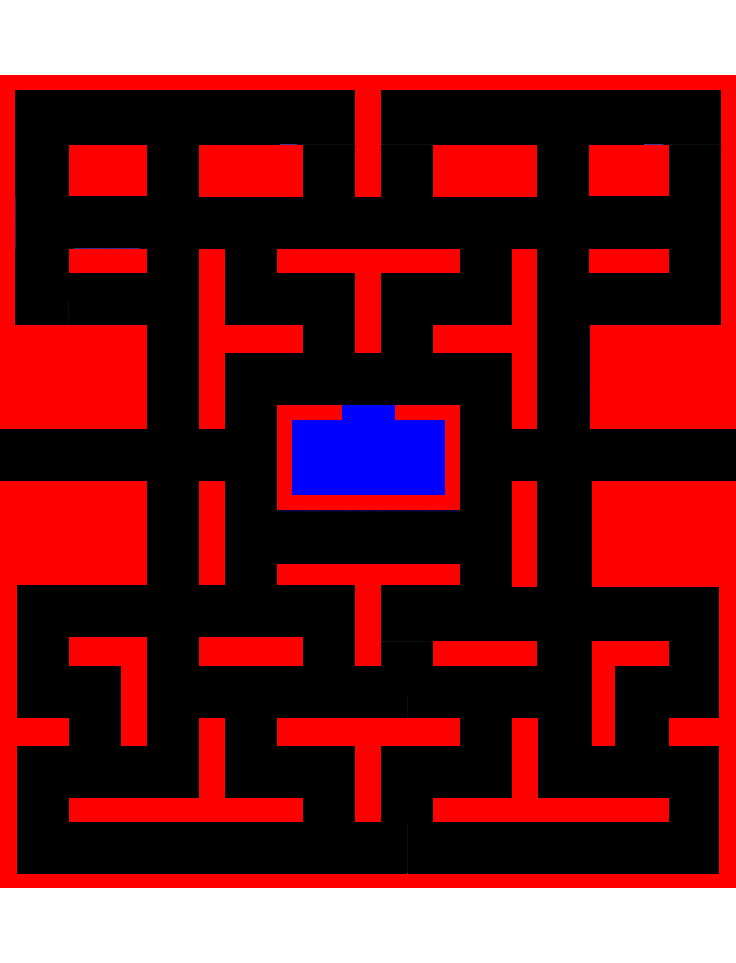
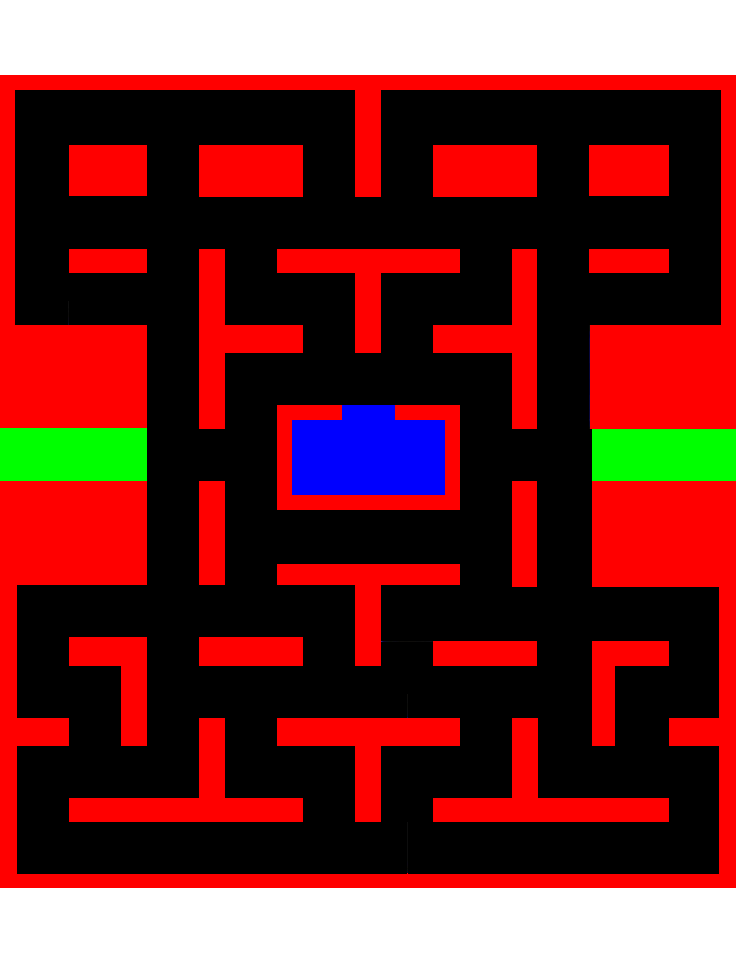
백그라운드서비스 변경

Changed region(s): [[0.7812, 0.4361, 1.0, 0.4984], [0.0, 0.4361, 0.2188, 0.4984]]

diff --git a/src/main/Service/BackgroundEnemyService.java b/src/main/Service/BackgroundEnemyService.java
@@ -29,7 +29,7 @@ public class BackgroundEnemyService {
 	public boolean leftWall() {
 		// 255 0 0 <-- 빨간색 (왼쪽벽 확인)
 		Color leftColor = new Color(image.getRGB(enemy.getX() - 10, enemy.getY() + 14));
-		if (leftColor.getRed() == 255 && leftColor.getGreen() == 0 && leftColor.getBlue() == 0) {
+		if ((leftColor.getRed() == 255 && leftColor.getGreen() == 0 && leftColor.getBlue() == 0) || (leftColor.getRed() == 0 && leftColor.getGreen() == 255 && leftColor.getBlue() == 0)) {
 			return true;
 		} else {
 			return false;
@@ -39,7 +39,7 @@ public class BackgroundEnemyService {
 	// 오른쪽벽
 	public boolean rightWall() {
 		Color rightColor = new Color(image.getRGB(enemy.getX() + 38, enemy.getY() + 14));
-		if (rightColor.getRed() == 255 && rightColor.getGreen() == 0 && rightColor.getBlue() == 0) {
+		if ((rightColor.getRed() == 255 && rightColor.getGreen() == 0 && rightColor.getBlue() == 0) || (rightColor.getRed() == 0 && rightColor.getGreen() == 255 && rightColor.getBlue() == 0)) {
 			return true;
 		} else {
 			return false;
@@ -49,7 +49,7 @@ public class BackgroundEnemyService {
 	// 위쪽벽
 	public boolean upWall() {
 		Color topColor = new Color(image.getRGB(enemy.getX() + 14, enemy.getY() - 10));
-		if (topColor.getRed() == 255 && topColor.getGreen() == 0 && topColor.getBlue() == 0) {
+		if ((topColor.getRed() == 255 && topColor.getGreen() == 0 && topColor.getBlue() == 0) || (topColor.getRed() == 0 && topColor.getGreen() == 255 && topColor.getBlue() == 0))  {
 			return true;
 		} else {
 			return false;
@@ -59,7 +59,7 @@ public class BackgroundEnemyService {
 	// 아래벽
 	public boolean downWall() {
 		Color downColor = new Color(image.getRGB(enemy.getX() + 14, enemy.getY() + 38));
-		if (downColor.getRed() == 255 && downColor.getGreen() == 0 && downColor.getBlue() == 0) {
+		if ((downColor.getRed() == 255 && downColor.getGreen() == 0 && downColor.getBlue() == 0) || (downColor.getRed() == 0 && downColor.getGreen() == 255 && downColor.getBlue() == 0)) {
 			return true;
 		} else {
 			return false;

diff --git a/src/main/Service/BackgroundEnemyService2.java b/src/main/Service/BackgroundEnemyService2.java
@@ -28,38 +28,43 @@ public class BackgroundEnemyService2 {
 	public boolean leftWall() {
 		// 255 0 0 <-- 빨간색 (왼쪽벽 확인)
 		Color leftColor = new Color(image.getRGB(enemy2.getX() - 10, enemy2.getY() + 14));
-		if (leftColor.getRed() == 255 && leftColor.getGreen() == 0 && leftColor.getBlue() == 0) {
+		if ((leftColor.getRed() == 255 && leftColor.getGreen() == 0 && leftColor.getBlue() == 0) || (leftColor.getRed() == 0 && leftColor.getGreen() == 255 && leftColor.getBlue() == 0)) {
 			return true;
+		} else {
+			return false;
 		}
-		return false;
 	}
 
 	// 오른쪽벽
 	public boolean rightWall() {
 		Color rightColor = new Color(image.getRGB(enemy2.getX() + 38, enemy2.getY() + 14));
-		if (rightColor.getRed() == 255 && rightColor.getGreen() == 0 && rightColor.getBlue() == 0) {
+		if ((rightColor.getRed() == 255 && rightColor.getGreen() == 0 && rightColor.getBlue() == 0) || (rightColor.getRed() == 0 && rightColor.getGreen() == 255 && rightColor.getBlue() == 0)) {
 			return true;
+		} else {
+			return false;
 		}
-		return false;
 	}
 
 	// 위쪽벽
 	public boolean upWall() {
 		Color topColor = new Color(image.getRGB(enemy2.getX() + 14, enemy2.getY() - 10));
-		if (topColor.getRed() == 255 && topColor.getGreen() == 0 && topColor.getBlue() == 0) {
+		if ((topColor.getRed() == 255 && topColor.getGreen() == 0 && topColor.getBlue() == 0) || (topColor.getRed() == 0 && topColor.getGreen() == 255 && topColor.getBlue() == 0))  {
 			return true;
+		} else {
+			return false;
 		}
-		return false;
 	}
 
 	// 아래벽
 	public boolean downWall() {
 		Color downColor = new Color(image.getRGB(enemy2.getX() + 14, enemy2.getY() + 38));
-		if (downColor.getRed() == 255 && downColor.getGreen() == 0 && downColor.getBlue() == 0) {
+		if ((downColor.getRed() == 255 && downColor.getGreen() == 0 && downColor.getBlue() == 0) || (downColor.getRed() == 0 && downColor.getGreen() == 255 && downColor.getBlue() == 0)) {
 			return true;
+		} else {
+			return false;
 		}
-		return false;
 
 	}
 
 }
+

diff --git a/src/main/Service/BackgroundEnemyService3.java b/src/main/Service/BackgroundEnemyService3.java
@@ -28,38 +28,43 @@ public class BackgroundEnemyService3 {
 	public boolean leftWall() {
 		// 255 0 0 <-- 빨간색 (왼쪽벽 확인)
 		Color leftColor = new Color(image.getRGB(enemy3.getX() - 10, enemy3.getY() + 14));
-		if (leftColor.getRed() == 255 && leftColor.getGreen() == 0 && leftColor.getBlue() == 0) {
+		if ((leftColor.getRed() == 255 && leftColor.getGreen() == 0 && leftColor.getBlue() == 0) || (leftColor.getRed() == 0 && leftColor.getGreen() == 255 && leftColor.getBlue() == 0)) {
 			return true;
+		} else {
+			return false;
 		}
-		return false;
 	}
 
 	// 오른쪽벽
 	public boolean rightWall() {
 		Color rightColor = new Color(image.getRGB(enemy3.getX() + 38, enemy3.getY() + 14));
-		if (rightColor.getRed() == 255 && rightColor.getGreen() == 0 && rightColor.getBlue() == 0) {
+		if ((rightColor.getRed() == 255 && rightColor.getGreen() == 0 && rightColor.getBlue() == 0) || (rightColor.getRed() == 0 && rightColor.getGreen() == 255 && rightColor.getBlue() == 0)) {
 			return true;
+		} else {
+			return false;
 		}
-		return false;
 	}
 
 	// 위쪽벽
 	public boolean upWall() {
 		Color topColor = new Color(image.getRGB(enemy3.getX() + 14, enemy3.getY() - 10));
-		if (topColor.getRed() == 255 && topColor.getGreen() == 0 && topColor.getBlue() == 0) {
+		if ((topColor.getRed() == 255 && topColor.getGreen() == 0 && topColor.getBlue() == 0) || (topColor.getRed() == 0 && topColor.getGreen() == 255 && topColor.getBlue() == 0))  {
 			return true;
+		} else {
+			return false;
 		}
-		return false;
 	}
 
 	// 아래벽
 	public boolean downWall() {
 		Color downColor = new Color(image.getRGB(enemy3.getX() + 14, enemy3.getY() + 38));
-		if (downColor.getRed() == 255 && downColor.getGreen() == 0 && downColor.getBlue() == 0) {
+		if ((downColor.getRed() == 255 && downColor.getGreen() == 0 && downColor.getBlue() == 0) || (downColor.getRed() == 0 && downColor.getGreen() == 255 && downColor.getBlue() == 0)) {
 			return true;
+		} else {
+			return false;
 		}
-		return false;
 
 	}
 
 }
+

diff --git a/src/main/Service/BackgroundPlayerService.java b/src/main/Service/BackgroundPlayerService.java
@@ -39,19 +39,23 @@ public class BackgroundPlayerService implements Runnable {
 				Color bottomColor = new Color(image.getRGB(player.getX() + 14, player.getY() + 30));
 
 				// 벽 감지 -> 벽 충돌
-				if (leftColor.getRed() == 255 && leftColor.getGreen() == 0 && leftColor.getBlue() == 0) {
+				if ((leftColor.getRed() == 255 && leftColor.getGreen() == 0 && leftColor.getBlue() == 0)
+						|| leftColor.getRed() == 0 && leftColor.getGreen() == 0 && leftColor.getBlue() == 255) {
 					// System.out.println("왼쪽 벽에 충돌함");
 					player.setLeftWallCrash(true);
 					player.setLeft(false);
-				} else if (rightColor.getRed() == 255 && rightColor.getGreen() == 0 && rightColor.getBlue() == 0) {
+				} else if ((rightColor.getRed() == 255 && rightColor.getGreen() == 0 && rightColor.getBlue() == 0)
+						|| (rightColor.getRed() == 0 && rightColor.getGreen() == 0 && rightColor.getBlue() == 255)) {
 					// System.out.println("오른쪽 벽에 충돌함");
 					player.setRightWallCrash(true);
 					player.setRight(false);
-				} else if (topColor.getRed() == 255 && topColor.getGreen() == 0 && topColor.getBlue() == 0) {
+				} else if ((topColor.getRed() == 255 && topColor.getGreen() == 0 && topColor.getBlue() == 0)
+						|| (topColor.getRed() == 0 && topColor.getGreen() == 0 && topColor.getBlue() == 255)) {
 					// System.out.println("위쪽 벽에 충돌함");
 					player.setTopWallCrash(true);
 					player.setUp(false);
-				} else if (bottomColor.getRed() == 255 && bottomColor.getGreen() == 0 && bottomColor.getBlue() == 0) {
+				} else if ((bottomColor.getRed() == 255 && bottomColor.getGreen() == 0 && bottomColor.getBlue() == 0)
+						|| (bottomColor.getRed() == 0 && bottomColor.getGreen() == 0 && bottomColor.getBlue() == 255)) {
 					// System.out.println("아래쪽 벽에 충돌함");
 					player.setBottomWallCrash(true);
 					player.setDown(false);
